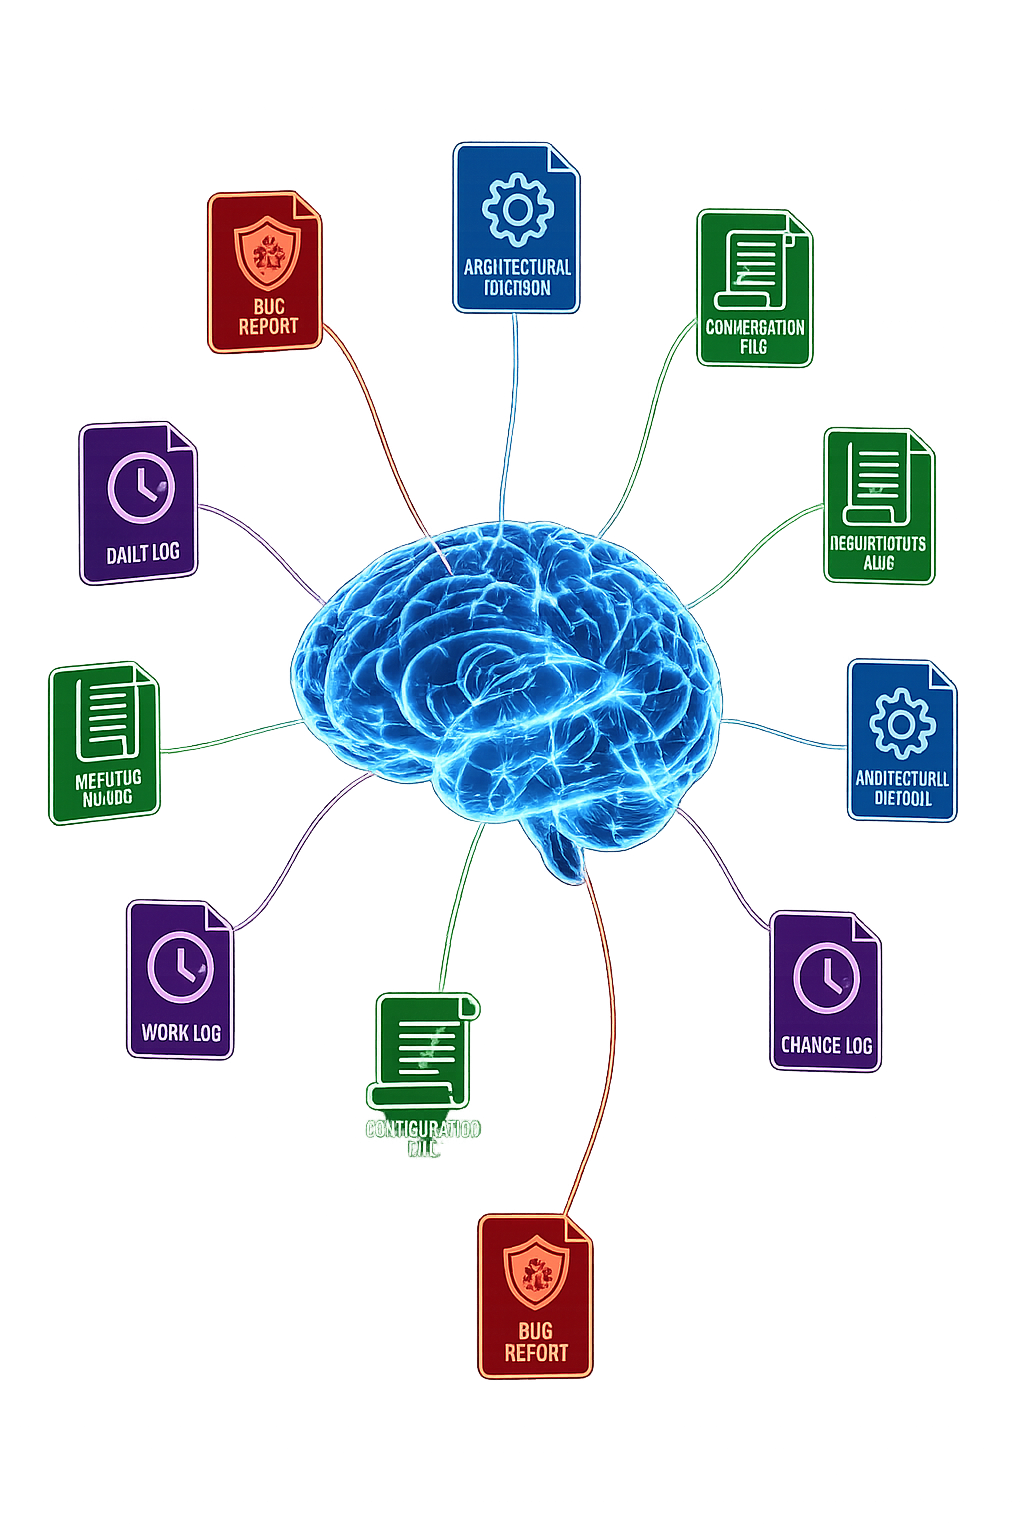
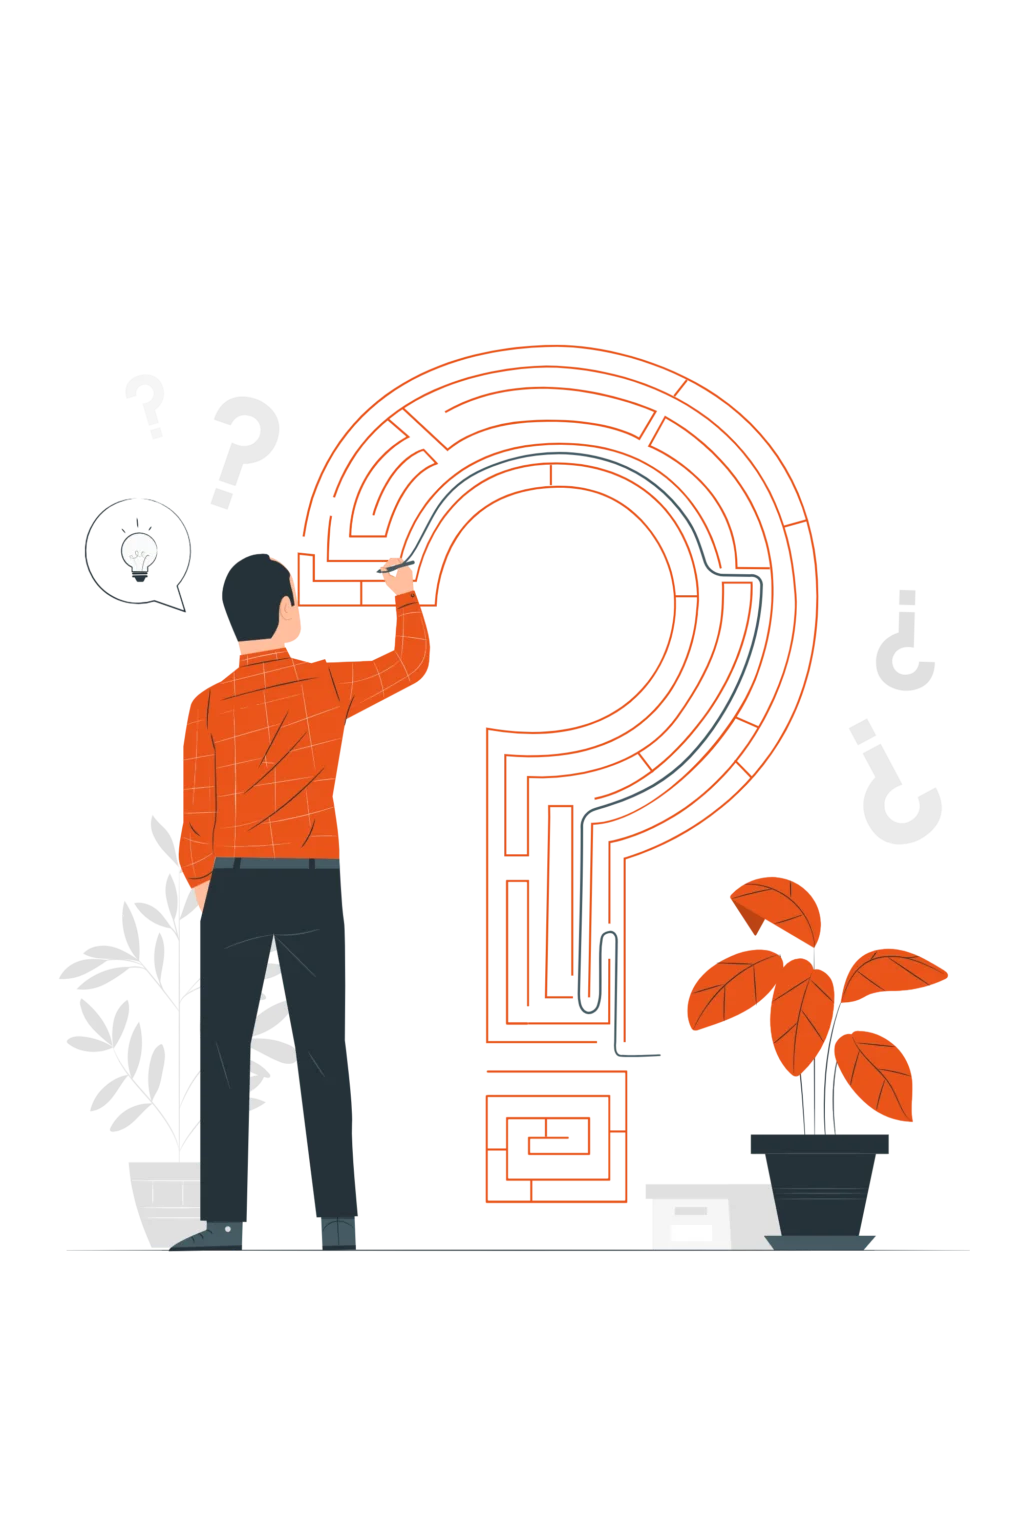
set hero and why Choose us

Changed region(s): [[0.0312, 0.0938, 0.9375, 0.9062], [0.1875, 0.125, 0.3438, 0.25]]

diff --git a/assets/css/main.css b/assets/css/main.css
@@ -2076,9 +2076,9 @@ section,
 
 .hero {
 
-  padding-top: 80px;
-
+  /*padding-top: 80px;
   min-height: 89vh;
+  padding-bottom: 80px;*/
 
 
   display: flex;
@@ -2089,8 +2089,7 @@ section,
 
   overflow: hidden;
 
-  padding-bottom: 80px;
-
+  background: var(--background-color);
 }
 
 
@@ -2112,6 +2111,7 @@ section,
   z-index: 1;
 
   object-position: top;
+  display: none;
 
 }
 
@@ -3190,7 +3190,7 @@ section,
   border-radius: 12px;
   margin-top: auto;
   border: 1px solid color-mix(in srgb, var(--default-color), transparent 90%);
-  gap: 20px;
+  gap: 15px;
 }
 
 .social-links a {

diff --git a/index.html b/index.html
@@ -69,9 +69,9 @@
       <div class="container" data-aos="fade-up" data-aos-delay="100">
         <div class="row justify-content-center">
           <div class="col-lg-8 text-center">
-            <h2>Hi, I'm Umair Rana</h2>
-            <p>I'm a <span class="typed"
-                data-typed-items="Web Developer, Web Designer, Frontend Developer, Backend Developer, Full Stack Developer"></span><span
+            <h2>Hi, We're CODEX</h2>
+            <p>We're a team of <span class="typed"
+                data-typed-items="Web Developers, Web Designers, Frontend Developers, Backend Developers, Full Stack Developers"></span><span
                 class="typed-cursor" aria-hidden="true"></span></p>
             <div class="social-links">
               <a href="https://www.facebook.com/mrumairrana"><i class="bi bi-twitter-x"></i></a>
@@ -867,6 +867,7 @@
     <span>Request Quote</span>
     <i class="bi bi-chat-dots"></i>
   </a>
+  
 
   <!-- Preloader -->
   <div id="preloader"></div>